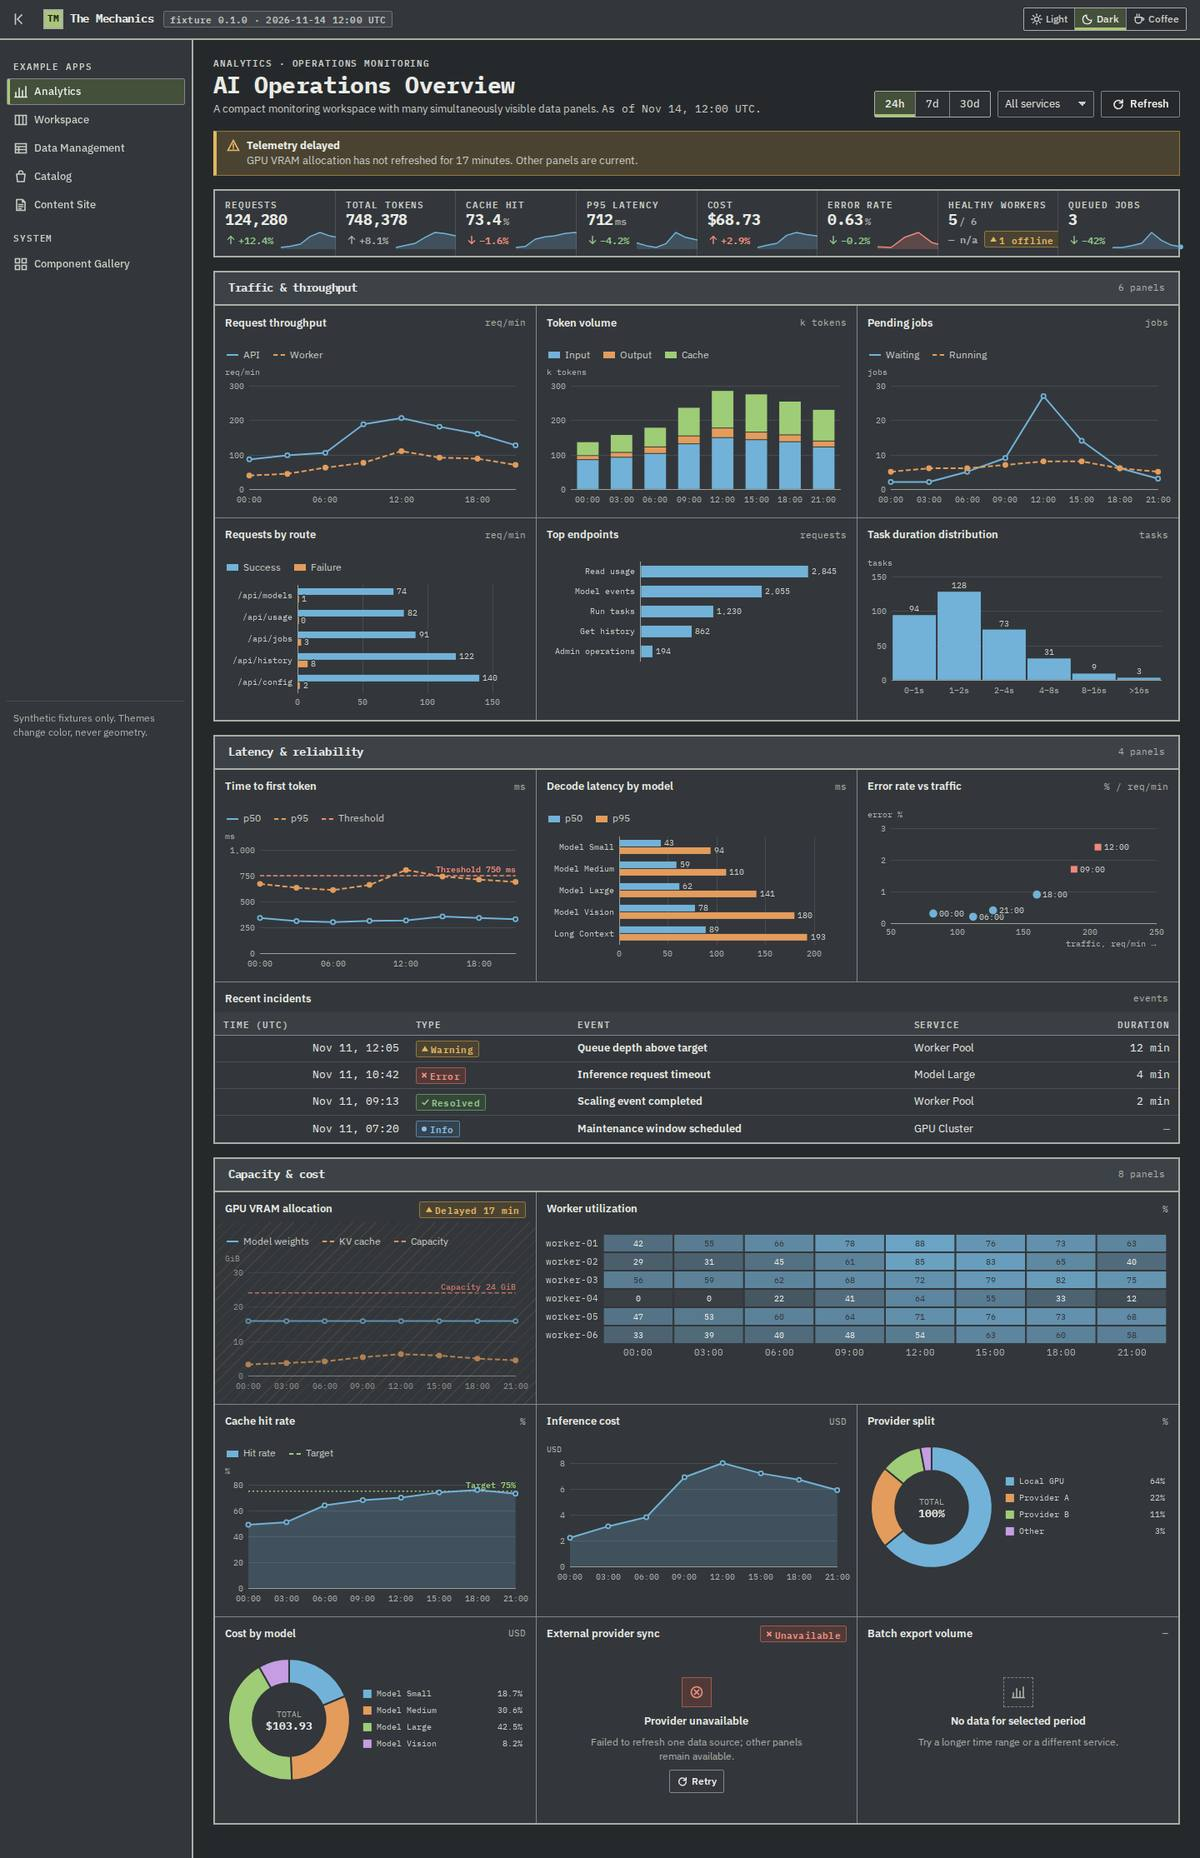
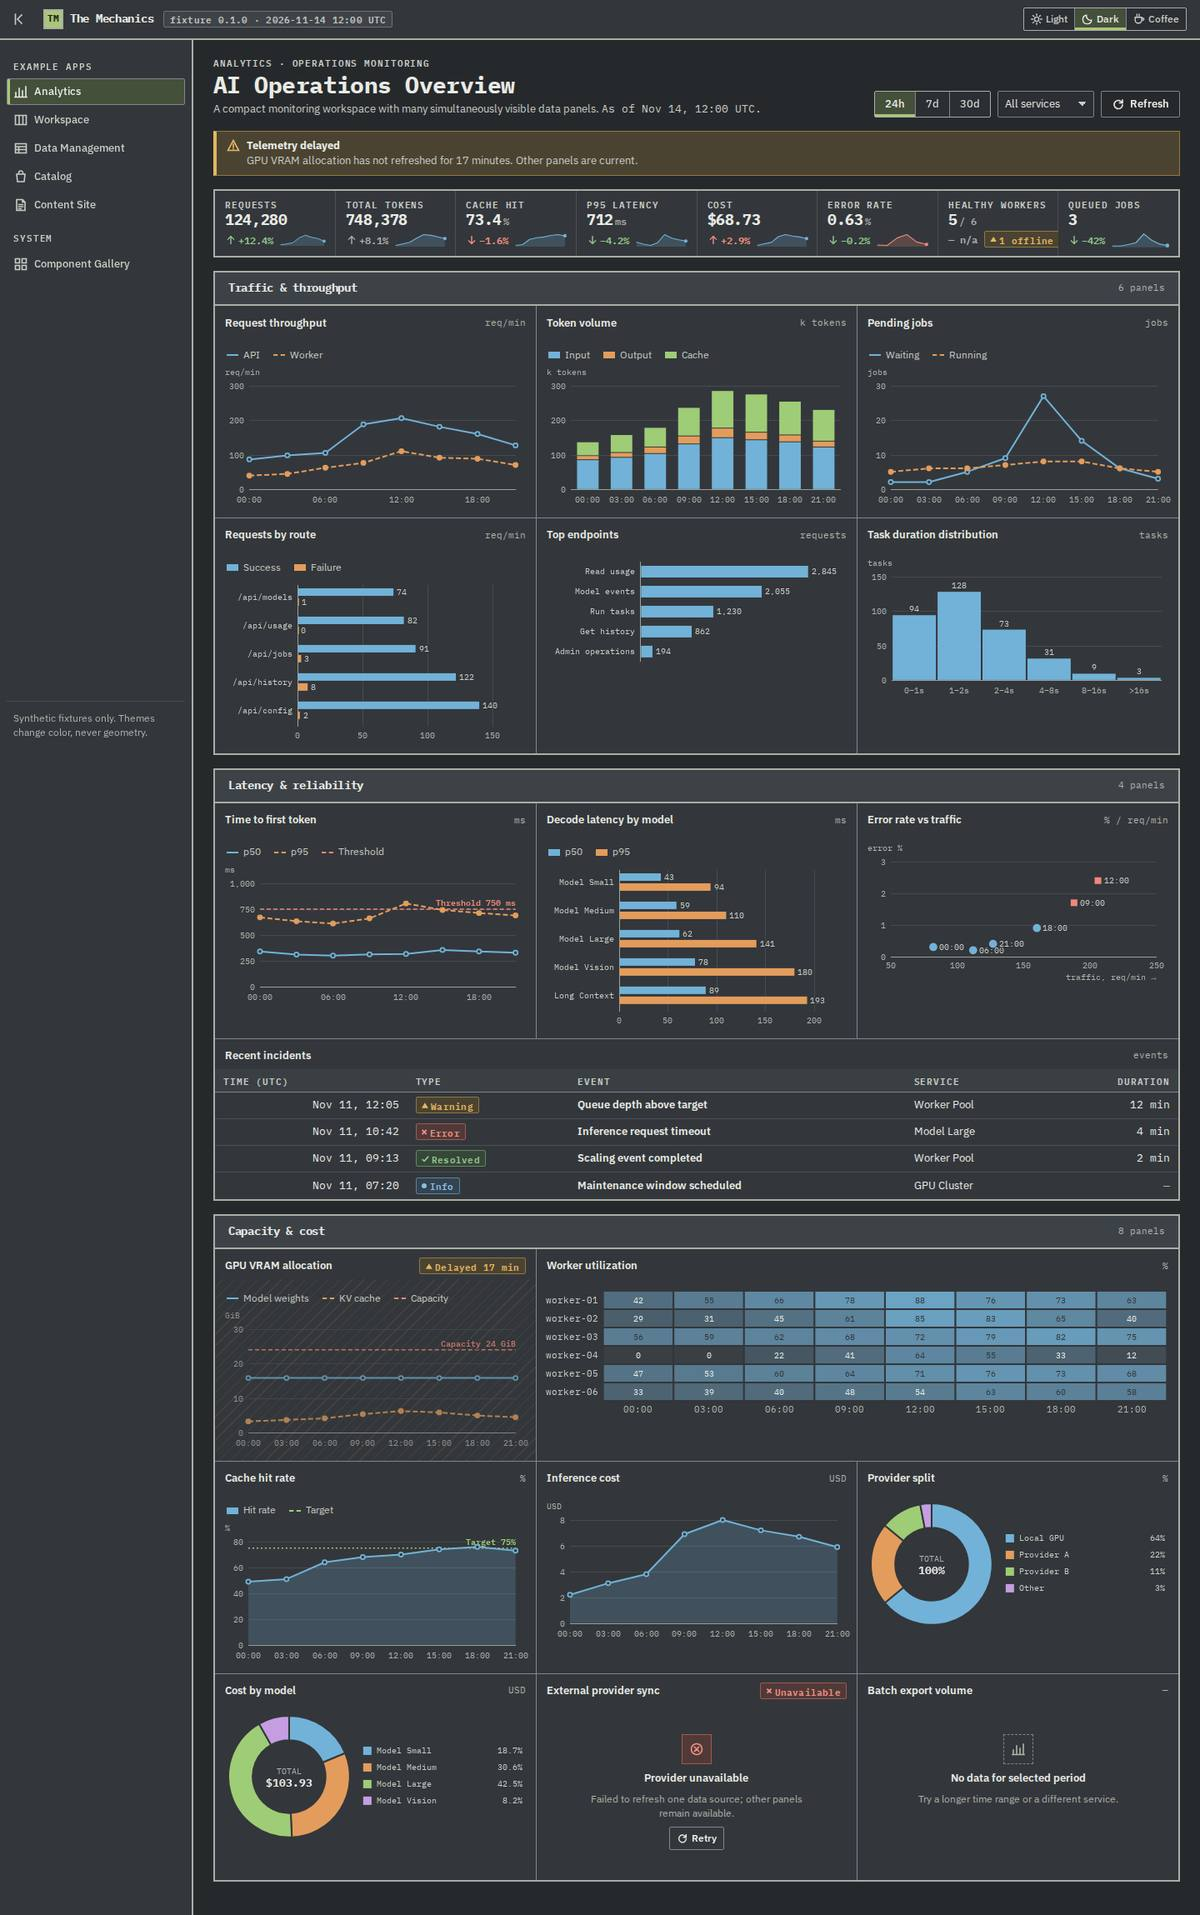
fix: balanced analytics grids on wide screens, bar spacing, width sweep
- Panel grids keep the 1600px content cap but balance their rows: the
  column count comes from the available width (min ~19rem per panel) and
  is then reduced so rows fill evenly (6 panels: 3+3, never 5+1); any
  remaining gap is covered by stretching the last panel.
- Paired horizontal bars use a 12px pitch with a 3px gap so small value
  labels no longer touch the bar above.
- A width sweep exposed pre-existing overflow at 1200px (8-column KPI
  strip with fixed sparklines) and 640-660px (topbar fixture badge);
  both fixed. Smoke tests now sweep 28 widths on all pages and assert
  no incomplete grid rows at 900/1440/2000px (18/18 pass).

Claude-Session: https://claude.ai/code/session_01WpekTqbxR8EZvqYNeeGVyi

diff --git a/src/playground/lib.js b/src/playground/lib.js
@@ -229,3 +229,40 @@ export function rovingList(container, selector) {
 }
 
 export const wait = (ms) => new Promise((r) => setTimeout(r, ms));
+
+// Balanced panel grid: choose the column count from the available width
+// (min column width = minPx), then reduce it so rows fill evenly — e.g. six
+// panels that would fit five-per-row become 3 + 3 instead of 5 + 1 orphan.
+// Full-width items (.pg-span-full) take their own row; span-2 items count twice.
+// If the count still cannot divide evenly, the last item stretches over the gap.
+export function balanceGrid(grid, minPx = 304) {
+  const apply = () => {
+    const width = grid.clientWidth;
+    if (!width) return;
+    const max = Math.max(1, Math.floor(width / minPx));
+    let units = 0;
+    let widest = 1;
+    let last = null;
+    grid.querySelectorAll(":scope > *").forEach((el) => el.style.removeProperty("grid-column"));
+    grid.querySelectorAll(":scope > :not([hidden])").forEach((el) => {
+      if (el.classList.contains("pg-span-full")) return;
+      last = el;
+      const cs = getComputedStyle(el);
+      const span = /span 2/.test(`${cs.gridColumnStart} ${cs.gridColumnEnd}`) ? 2 : 1;
+      units += span;
+      widest = Math.max(widest, span);
+    });
+    if (!units) return;
+    const rows = Math.ceil(units / max);
+    const cols = Math.min(max, Math.max(widest, Math.ceil(units / rows)));
+    grid.style.gridTemplateColumns = `repeat(${cols}, minmax(0, 1fr))`;
+    // Still uneven (e.g. 3 panels in 2 columns)? Stretch the last panel over
+    // the empty cells instead of leaving a hole.
+    const gap = Math.ceil(units / cols) * cols - units;
+    if (gap > 0 && last) last.style.gridColumn = `span ${Math.min(cols, gap + 1)}`;
+  };
+  const ro = new ResizeObserver(apply);
+  ro.observe(grid);
+  apply();
+  return { apply, destroy: () => ro.disconnect() };
+}

diff --git a/src/playground/charts.js b/src/playground/charts.js
@@ -156,7 +156,8 @@ function hGroupedChart(c, w, hidden) {
   const labW = Math.min(w * 0.38, Math.max(...c.xLabels.map(textW)) + 10);
   const max = Math.max(...c.series.flatMap((s) => s.values));
   const sc = niceScale(0, max);
-  const rowH = Math.max(18, vis.length * 9 + 8);
+  const PITCH = 12; // bar-to-bar pitch inside a group: 9px bar + 3px gap, fits a 10.5px value label
+  const rowH = Math.max(18, vis.length * PITCH + 10);
   const m = { t: 6, r: 40, b: 20, l: labW };
   const h = m.t + rowH * c.xLabels.length + m.b;
   const plotW = w - m.l - m.r;
@@ -171,13 +172,13 @@ function hGroupedChart(c, w, hidden) {
   const stops = [];
   c.xLabels.forEach((lab, i) => {
     const y0 = m.t + i * rowH + 4;
-    body += `<text class="${TICK} tm-chart__tick--strong" x="${m.l - 6}" y="${y0 + (rowH - 8) / 2 + 3.5}" text-anchor="end">${esc(lab)}</text>`;
-    const bh = (rowH - 8) / Math.max(1, vis.length);
+    body += `<text class="${TICK} tm-chart__tick--strong" x="${m.l - 6}" y="${y0 + (vis.length * PITCH - 3) / 2 + 3.5}" text-anchor="end">${esc(lab)}</text>`;
+    const bh = PITCH;
     vis.forEach((s, k) => {
       const v = s.values[i] ?? 0;
       const yy = y0 + k * bh;
-      body += `<rect class="tm-chart__bar ${seriesCls(s.si)}" x="${m.l + 1}" y="${yy}" width="${Math.max(1, x(v) - m.l - 1)}" height="${Math.max(2, bh - 1)}"/>`;
-      body += `<text class="tm-chart__value" x="${x(v) + 4}" y="${yy + bh / 2 + 3}">${fmtNum(v)}</text>`;
+      body += `<rect class="tm-chart__bar ${seriesCls(s.si)}" x="${m.l + 1}" y="${yy}" width="${Math.max(1, x(v) - m.l - 1)}" height="${bh - 3}"/>`;
+      body += `<text class="tm-chart__value" x="${x(v) + 4}" y="${yy + (bh - 3) / 2 + 3.5}">${fmtNum(v)}</text>`;
     });
     stops.push({
       x: m.l + plotW / 2,

diff --git a/src/playground/pages/analytics.js b/src/playground/pages/analytics.js
@@ -1,4 +1,4 @@
-import { esc, icon, fmtInt, fmtNum, fmtMoney, fmtSigned, fmtDateTime, badge, toast, wait } from "../lib.js";
+import { esc, icon, fmtInt, fmtNum, fmtMoney, fmtSigned, fmtDateTime, badge, toast, wait, balanceGrid } from "../lib.js";
 import { mountChart, legendItems, sparkline, isTimeSeries } from "../charts.js";
 import { KPI_META, SERVICE_TAGS, ANALYTICS_REGIONS, STALE_CHART } from "../derived.js";
 
@@ -197,6 +197,7 @@ export default {
       });
       main.querySelector("#filter-note").textContent =
         service === "All services" ? "" : `Showing ${shown} of ${total} panels tagged “${service}”.`;
+      grids.forEach((g) => g.apply());
     }
 
     main.querySelectorAll('input[name="range"]').forEach((i) =>
@@ -234,8 +235,12 @@ export default {
       toast({ tone: "danger", title: a.errorPanel.title, body: "Retry failed. The fixture simulates a persistent outage.", timeout: 0 });
     });
 
+    const grids = [...main.querySelectorAll(".tm-panel-grid")].map((g) => balanceGrid(g));
     applyFilter();
     mountAll();
-    return () => mounts.forEach((m) => m.destroy());
+    return () => {
+      mounts.forEach((m) => m.destroy());
+      grids.forEach((g) => g.destroy());
+    };
   },
 };

diff --git a/src/playground/app.css b/src/playground/app.css
@@ -60,6 +60,11 @@ html {
     scroll-padding-top: calc(var(--tm-topbar-h) + 3.5rem);
   }
 }
+@media (max-width: 799px) {
+  .pg-hide-md {
+    display: none !important;
+  }
+}
 @media (max-width: 639px) {
   .pg-hide-sm {
     display: none !important;
@@ -125,9 +130,12 @@ html {
 .pg-skel-chart .tm-skeleton:nth-child(3) { width: 100%; height: 30px; }
 .pg-spark { display: block; overflow: visible; --_series: var(--tm-chart-1); }
 .pg-spark.tm-series-6 { --_series: var(--tm-chart-6); }
-@media (min-width: 1200px) {
+/* Eight KPIs in one row only when each tile keeps room for value + trend + sparkline. */
+@media (min-width: 1360px) {
   .tm-kpi-strip[aria-label^="Key metrics"] { grid-template-columns: repeat(8, minmax(0, 1fr)); }
 }
+.tm-kpi__foot { min-width: 0; }
+.tm-kpi__foot > .pg-spark { flex: 0 1 84px; min-width: 40px; height: 22px; }
 .tm-kpi-strip[aria-label^="Key metrics"] .tm-kpi__value { font-size: var(--tm-text-xl); }
 
 /* ---------- Workspace ------------------------------------------------- */

diff --git a/src/playground/main.js b/src/playground/main.js
@@ -50,7 +50,7 @@ app.innerHTML = `
   <header class="tm-topbar">
     <button class="tm-btn tm-btn--ghost tm-btn--icon pg-collapse" id="sidebar-toggle" aria-controls="sidebar" aria-expanded="true" aria-label="Collapse navigation">${icon("collapse")}</button>
     <a class="tm-brand" href="#/analytics"><span class="tm-brand__mark" aria-hidden="true">TM</span><span class="pg-brand-text">The Mechanics</span></a>
-    <span class="tm-badge tm-badge--plain pg-hide-sm" title="Fixture as-of time">fixture ${esc(data.meta.version)} · ${esc(data.meta.asOf.replace("T", " ").replace(":00Z", " UTC"))}</span>
+    <span class="tm-badge tm-badge--plain pg-hide-md" title="Fixture as-of time">fixture ${esc(data.meta.version)} · ${esc(data.meta.asOf.replace("T", " ").replace(":00Z", " UTC"))}</span>
     <span class="tm-toolbar__spacer"></span>
     <fieldset class="tm-segmented tm-segmented--sm" id="theme-switcher" aria-label="Theme" data-testid="theme-switcher">
       <legend class="tm-sr-only">Theme</legend>

diff --git a/docs/verification/testing-report.md b/docs/verification/testing-report.md
@@ -38,8 +38,11 @@ Round 3 (owner review):
 21. Light theme shell (topbar, sidebar) used the same cream as the panels and read as colorless white → new `--tm-chrome` token; Light uses warm sand `#e6e0cc` (Dark/Coffee unchanged). Contrast check covers text on chrome (45 pairs per theme).
 22. Light panels (`#f6f3eb`) and controls (`#fbfaf5`, even brighter) glared against the gray canvas → two variants were served side by side for owner review; chosen variant tones panels to `#efebe1` and controls to `#f2efe6` (heads/sunken shifted proportionally, canvas unchanged). All contrast pairs pass.
 23. Analytics panel dividers rendered unevenly (1px grid gap on fractional column widths antialiased into 1–2px lines) and used the faint Level 3 color, reading as chart gridlines → dividers are real right/bottom panel borders in the Level 2 color, pixel-snapped; measured exactly 1px `#767b6f` at 1440 and 2000px widths; outer-edge borders clipped under the region frame.
+24. Wide screens (owner uses 4K): 6 panels laid out 5 + 1 orphan, 3 charts left an empty column → panel grids keep the 1600px content cap but balance rows (column count from width, then reduced so rows fill evenly; a remaining gap is covered by stretching the last panel). Smoke check asserts no incomplete rows at 900/1440/2000px.
+25. Paired horizontal bars (Requests by route) were 1px apart, so small value labels touched the bar above → 12px pitch, 9px bars, 3px gap.
+26. Width sweep found pre-existing overflow at 1200px (8-column KPI strip with fixed sparklines) and 640–660px (topbar fixture badge) → KPI strip goes 8-wide only from 1360px and sparklines shrink; badge hidden below 800px. Smoke check now sweeps 28 widths (360–1920px) on all 6 pages.
 
-### Interaction / keyboard checks — `pnpm smoke` (15/15 pass, [`smoke-results.json`](smoke-results.json))
+### Interaction / keyboard checks — `pnpm smoke` (all pass, [`smoke-results.json`](smoke-results.json))
 Desktop 1440×900, Chromium:
 - Theme switch: instant, reflected in `?theme=`, persisted across reload; **page width/height identical across Light/Dark/Coffee on all 6 pages**.
 - Keyboard: first Tab reaches the skip link; focus ring is `solid 2px`.
